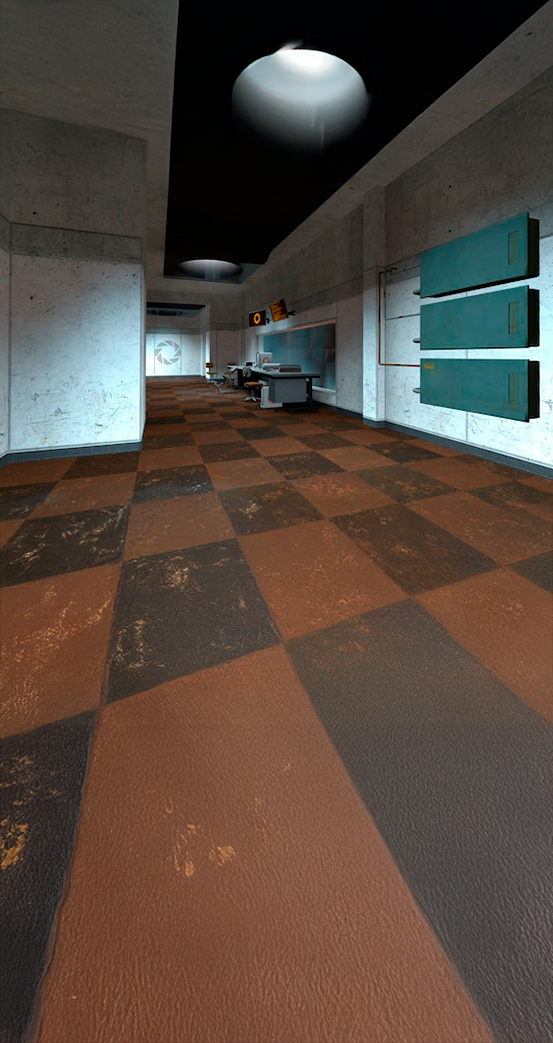
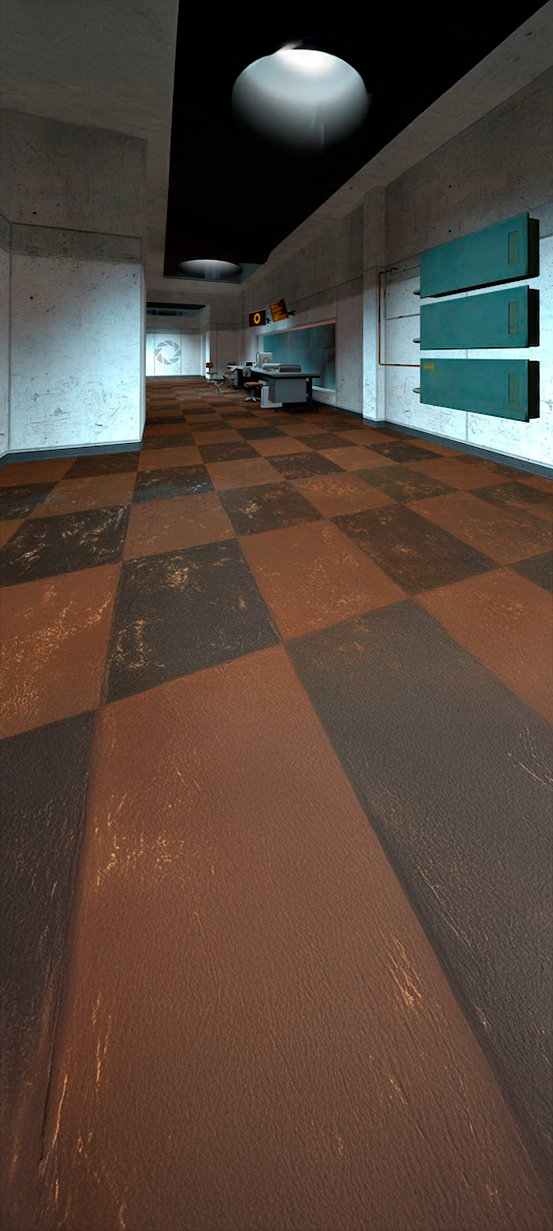
Responsive phone
Nye baggrundsbilleder og opdateret CSS med responsiveness ned til telefon-størrelse

diff --git a/index-style.css b/index-style.css
@@ -24,15 +24,16 @@ body {
 	background-size: auto 100vh;
 	background-position: left top;
 	overflow: hidden; /* Skjul alt, der går uden for skærmen */
-  	height: 100vh; /* Sørg for, at body altid fylder hele højden af vinduet */
+  	height: 100vh;
+	width: 100vw;
 	
 }
 
 /* Start-knap */
 .overlay {
 	Background-color: rgba(0,0,0,0.6);
-	height: 100%;
-	width: 100%;
+	height: 100vh;
+	width: 100vw;
 	Position: absolute;
 	
 }
@@ -47,8 +48,6 @@ body {
     display:flex;
     justify-content: center;
     align-items: center;
-    font-family: Arial, sans-serif;
-    font-size: 2rem;
     z-index: 10;
     cursor: pointer;  
     opacity: 1; /* Synligt ved start */
@@ -57,7 +56,7 @@ body {
 .start-image {
     width: auto; /* Behold aspect ratio */
     height: auto; 
-    max-width: 60vw; 
+    max-width: 80vw; 
     max-height: 40vh; 
 }
 .overlay.hidden {
@@ -67,7 +66,7 @@ body {
 
 /* Logo */
 .perspective-logo {
-	perspective: 40vh; /* Juster perspektivet */
+	perspective: 40vh; 
 	position:absolute;
 	top: 4vh; margin-left: 48vh; /*baseret på højde, da baggrund kun skallerer der*/	
 }
@@ -84,17 +83,17 @@ body {
 }
 /* Menu */
 .perspective-menu {
-	perspective: 110vh; /* Juster perspektivet */
+	perspective: 110vh; 
 	position:absolute;
-	top:17vh; margin-left: 9.3vh; /*baseret på skærmens højde, da baggrundsbillede ikke skallerer ved ændring i bredde*/
+	top:17vh; margin-left: 9.3vh; 
 }
 .menu {
-	width: 38vh; height: 55vh;/*baseret på skærmens højde, da baggrundsbillede ikke skallerer ved ændring i bredde*/
-	background-color: rgba(255,255,255,0); /*gennemsigtigt*/
-	transform: rotateY(37deg) skewY(5.5deg); /* Gør området skævt*/ 
+	width: 38vh; height: 55vh;
+	background-color: rgba(255,255,255,0); 
+	transform: rotateY(37deg) skewY(5.5deg);
 }
 .menu a {
-	display: block; /*menupunkterne står under hinanden*/
+	display: block; 
 	text-decoration: none; /* Fjern understregning fra links */
 	color:black;
 }
@@ -158,11 +157,56 @@ input[type="range"] {
 		background-image: url("img/index Background Help portrait.jpg");}
 	.perspective-logo {
 		perspective: 30vh; 
-		top: 11vh; margin-left: 44vh;}
+		top: 8vh; margin-left: 46vh;}
 	.logo {
 		width: 36vh; height: 25vh;
 		transform: rotateY(-25deg) skewY(-30deg);}
 	.perspective-menu {
 		top:17vh;
 		margin-left: 2vh;}
+}
+@media screen and (max-aspect-ratio:2/3){
+	
+	body {
+		background-image: url("img/index Background Help phone.png");
+		background-size: 100vw auto;
+	}
+	.start{
+		top: 100vw;
+		height: 60vw;	}
+	.start-image {
+		max-height: 60vw; 	}
+
+	/* Logo */
+	.perspective-logo {
+		perspective: 30vw; 
+		top: 12vw; margin-left: 54vw; 	}
+	.logo {
+		width: 40vw; height: 25vw; 
+		transform: rotateY(-25deg) skewY(-32deg); }
+	/* Menu */
+	.perspective-menu {
+		perspective: 110vw; 
+		top:23vw; margin-left: 4vw; 	}
+	.menu {
+		width: 44vw; height: 63vw;
+		transform: rotateY(30deg) skewY(5deg);	}
+	.menu h2 {
+		font-size: 25vw;
+		margin-bottom: 2vw;	}
+	.menu h5 {
+		font-size:4.1vw;
+		margin-left: 5vw;
+		padding: 0.5vw;	}
+
+	/* Audio controls */
+	button img {
+		width: 7vw;
+		height: 7vw;	}
+	input[type="range"] {
+		width: 22vw;
+		height: 1vw;	}
+	.audio-controls {
+		margin-left: 5vw;
+		margin-top: 1vw;	}
 }

diff --git a/about-style.css b/about-style.css
@@ -107,6 +107,21 @@ input[type="range"] {
 .warning-text {
 	transform: rotateX(50deg) skewY(-12deg); /* Gør området skævt*/ 
 }
+/* Video */
+.video-container {
+    width: 55vh;
+    aspect-ratio: 16 / 9;
+    overflow: hidden;
+	position: absolute;
+    top: 2vh;
+    left: 58vw;
+}
+
+.video-container iframe {
+    width: 100%;
+    height: 100%;
+    border: 0;
+}
 
 /* Captions timing */
 .captions-box.play-captions .caption:nth-child(1) {
@@ -130,25 +145,117 @@ input[type="range"] {
 @media screen and (max-aspect-ratio:4/3){
 
 body {
-		background-size: auto 100vh;}
-h3 {
-	font-size:7.5vh;
-	}	
-	/* Menu */
+	background-image: url("img/about Background portrait.png");
+	background-size: 100vw auto;
+  	height: auto; 
+	width: 100vw;
+}
+h3 { /*menu*/
+	font-size:5vw;
+}
+h5 { /*warning*/
+	font-size:5.5vw;
+}
+/* Breadcrumbs */
+.breadcrumbs p, a {
+	font-size: 3vw;
+}
+/* Menu */
 .perspective-menu {
-	top:4vh; margin-left: 2vh; 
+	perspective: 28vw; 
+	top:5vw; margin-left: 3vw;
 }
 .menu {
-	width: 43vh; height: 62vh;
-	transform: rotateY(35deg) skewY(-1deg); /* Gør området skævt*/ 
+	width: 30vw; height: 46vw;
+	transform: rotateY(29deg) skewY(0deg); 
+}
+.home	{
+	margin-left: 1vw;
+}
+.investors	{
+	margin-left: 13vw;
+	margin-top: 1vw;
+}
+.contact	{
+	margin-left: 5vw;
+}
+/* Audio controls */
+button img {
+  	width: 7vw;
+  	height: 7vw;
+}
+input[type="range"] {
+  	width: 16vw;
 }
 .audio-controls {
-  	margin-left: 2vh;
-	margin-top: 20vh;
+  	margin-left: 1vw;
+	margin-top: 15vw;
 }
 .warning{
-	top: 62vh; 
-	margin-left: 40vh;
+	top: 53vw; 
+	margin-left: 25vw;
+	perspective: 200vw;
+}
+/* Video */
+.video-container {
+    width: 50vw;
+    top: 2vw;
+    left: 48vw;
+}
 }
 
+@media screen and (max-aspect-ratio:2/3){
+	
+body {
+	background-image: url("img/about Background phone.png");	
+}
+h3 { /*menu*/
+	font-size:8vw;
+}
+h5 { /*warning*/
+	font-size:8vw;
+}
+/* Breadcrumbs */
+.breadcrumbs p, a {
+	font-size: 4vw;
+}
+/* Menu */
+.perspective-menu {
+	perspective: 42vw; 
+}
+.menu {
+	width: 45vw; height: 75vw;
+}
+.home	{
+	margin-left: 2vw;
+}
+.investors	{
+	margin-left: 18vw;
+	margin-top: 2vw;
+}
+.contact	{
+	margin-left: 7vw;
+}
+/* Audio controls */
+button img {
+  	width: 9vw;
+  	height: 9vw;
+}
+input[type="range"] {
+  	width: 25vw;
+}
+.audio-controls {
+  	margin-left: 2vw;
+	margin-top: 24vw;
+}
+.warning{
+	top: 66vw; 
+	margin-left: 35vw;
+}
+	/* Video */
+.video-container {
+    width: 80vw;
+    top: 98vw;
+    left: 10vw;
+}
 }

diff --git a/contact-style.css b/contact-style.css
@@ -221,7 +221,7 @@ h5 { /*menu*/
 	margin-left: 3vw;
 	padding-bottom: 0.5vw;
 }
-h6 { /*textbox*/
+h6 { /*textbox headline*/
 	font-size: 2.5vw;
 	margin: 1vw 0vw;
 	}	
@@ -337,4 +337,44 @@ p {
 .perspective-menu {
 	top: 48vw;
 }
+}
+
+@media screen and (max-aspect-ratio:2/3){
+	
+body {
+	background-image: url("img/contact Background phone.png");
+}
+h6 { /*textbox headline*/
+	font-size: 3.5vw;
+	margin-bottom: 2.5vw;
+	}	
+p {
+	font-size: 3vw;
+	}
+/*textbox*/	
+.textbox1{
+	top: 85vw;
+	left: 15vw;
+	height: 31vw;
+	width: 70vw;
+}
+.textbox2{
+	top: 123vw;
+	left: 15vw;
+	height: 23vw;
+	width: 70vw;
+}
+/* Contact */
+.perspective-contact {
+	top: 42vw; 
+}
+/* Logo */
+.perspective-logo {
+	top: 24vw; 
+}
+/* Menu */
+.perspective-menu {
+	top: 52vw;
+}	
+	
 }

diff --git a/about.html b/about.html
@@ -46,12 +46,26 @@
   				</div>
 			</div>
 		</div>
+	
+	<!--warning-->
 	<div class="warning">
 		<div class="warning-text">
 			<h5>Do not listen to her! it is a trap! <br>
 			The cake is a lie !!!</h5>
 			</div>
 		</div>
+	
+	<!--video-->
+<div class="video-container">
+    <iframe 		src="https://www.youtube.com/embed/c2YRVWZupwo?si=jQ0jfRccENlGWIAf" 
+	title="YouTube video player" 
+	frameborder="0" 
+	allow="accelerometer; autoplay; clipboard-write; encrypted-media; gyroscope; picture-in-picture; web-share" 
+	referrerpolicy="strict-origin-when-cross-origin"
+	allowfullscreen>
+    </iframe>
+</div>
+
 	
 	<!--captions-->
 	<div class="captions-box">
